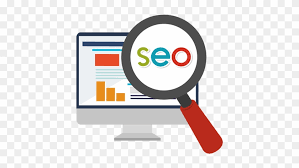
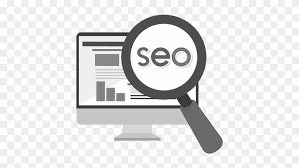
Added images in skill.html & styled them

diff --git a/skill.html b/skill.html
@@ -28,7 +28,7 @@
             </button>
             <div class="collapse navbar-collapse" id="navbarNavAltMarkup">
                 <div class="navbar-nav">
-                    <a class="nav-link" aria-current="page" href="#about">about</a>
+                    <a class="nav-link" aria-current="page" href="index.html#about">about</a>
                     <a class="nav-link" href="#skills">skills</a>
                     <a class="nav-link" href="#projects">projects</a>
                     <a class="nav-link" href="#contact">contact</a>
@@ -40,11 +40,9 @@
     <!-- end of navbar -->
     
     <!-- skill -->
+    <h3 class="skill-title text-center">my skills and technology I've learnt</h3>
     <div class="skill" id="skill">
-        <h3 class="skill-title text-center p-30">my skills</h3>
-    
-    
-    
+
         <div class="container">
             <div class="row">
     
@@ -149,7 +147,7 @@
                 <div class=" skill-item col-sm-3">
                     <div class="skill-icon">
                         <i>
-                            <img src="images/flexbox.png" alt="" class="flexbox d-block" />
+                            <img src="images/flexbox.jpg" alt="" class="flexbox d-block" />
                         </i>
                         <p class="skill-name">Flexbox</p>
                     </div>

diff --git a/src/style.css b/src/style.css
@@ -21,6 +21,7 @@ h3{
         color: #393e46;
         font-size: 18px;
         padding-top: 10px;
+        padding-bottom: 20px;
        
 }
 p{
@@ -145,28 +146,36 @@ background-color: #dbd8e3;
 
 .vscode{
         color:#393e46;
+        
         width: 80px;
+      filter: invert(20%) sepia(7%) saturate(1010%) hue-rotate(178deg) brightness(60%) contrast(85%);
 }
 
 .api{
 color: #393e46;
         width: 90px;
+        filter: invert(20%) sepia(7%) saturate(1010%) hue-rotate(178deg) brightness(20%) contrast(85%);
 }
 .responsive {
         color: #393e46;
-        width: 95px;
+        width: 135px;
+        filter: invert(20%) sepia(7%) saturate(1010%) hue-rotate(178deg) brightness(97%) contrast(85%);
 }
 .seo{
         color: #393e46;
         width: 140px;
+        filter: invert(20%) sepia(7%) saturate(1010%) hue-rotate(178deg) brightness(97%) contrast(85%);
 }
 .flexbox {
         color: #393e46;
-        width: 130px;
+        width: 70px;
+        filter: invert(20%) sepia(7%) saturate(1010%) hue-rotate(178deg) brightness(40%) contrast(85%);
+       
 }
 .hosting {
         color: #393e46;
         width: 80px;
+        filter: invert(20%) sepia(7%) saturate(1010%) hue-rotate(178deg) brightness(40%) contrast(85%);
 }
 
 

diff --git a/index.html b/index.html
@@ -32,7 +32,7 @@
                 <div class="navbar-nav">
                     <a class="nav-link" aria-current="page" href="#about">about</a>
                     <a class="nav-link" href="skill.html">skills</a>
-                    <a class="nav-link" href="#projects">projects</a>
+                    <a class="nav-link" href="skill.html#projects">projects</a>
                     <a class="nav-link" href="#contact">contact</a>
                 </div>
             </div>
@@ -69,9 +69,11 @@
         <!--End of home page -->
 
         <!-- about -->
-        <div class="about-container">
+       
+        <div class="about-container" id="about">
         <h3 class="text-center">About me</h3>
-<div class="about" id="about">
+        <div class="about" >
+
    
     <p>
         I am graduated in master of applied physics, after a couple of years of
